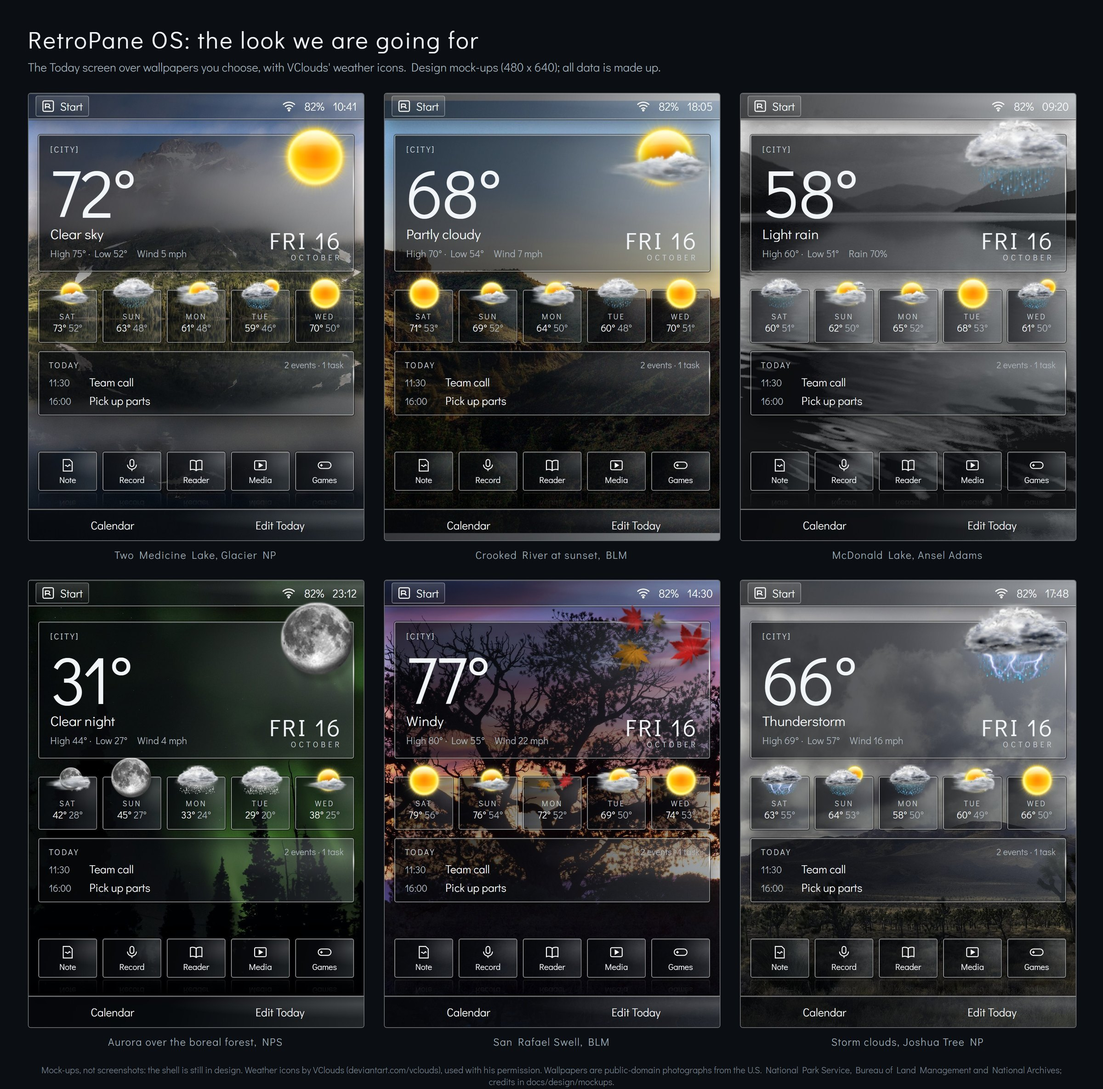
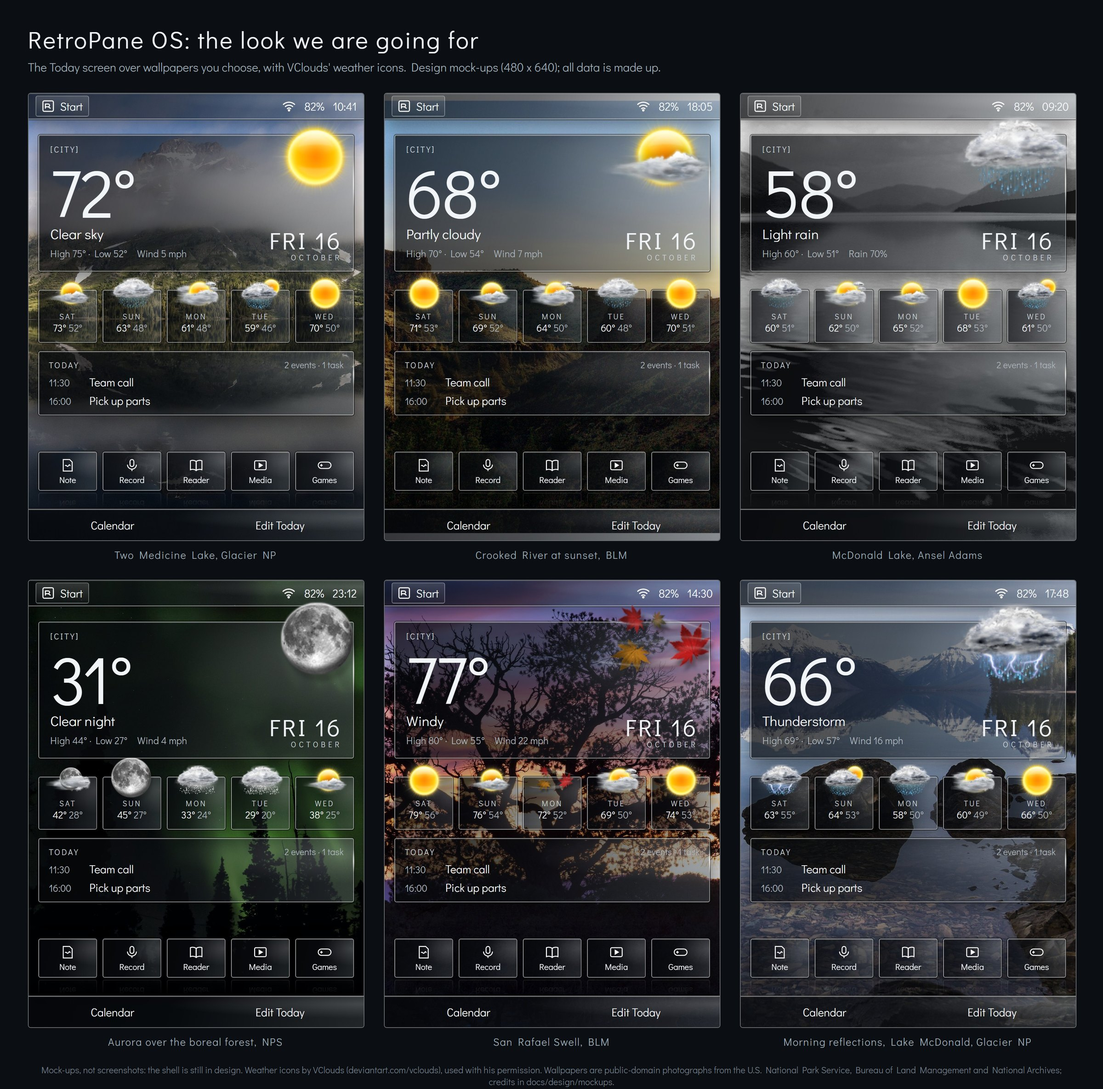
Wallpapers cut to ten (the not fully licensed one and the weakest four dropped); front-page image and thunderstorm mock-up redone without the dropped one

Changed region(s): [[0.6562, 0.562, 1.0, 0.9679]]

diff --git a/docs/design/ui.md b/docs/design/ui.md
@@ -121,9 +121,9 @@ The look the owner chose: smoked glass over a wallpaper, "a good mix of retro an
 | Aurora | `File:Night landscape northern lights scenic aurora borealis.jpg` | Public domain |
 
 **Goal (owner, 2026-10-13): at least 10 approved wallpapers ship. Met 2026-10-17:**
-the owner approved 15 from 47 candidates (the table under "Wallpaper provenance"
+the owner approved 15 from 47 candidates and then cut them to ten (the table under "Wallpaper provenance"
 supersedes the four above, of which only the lake is still in use as a built-in
-default candidate). Two of the 15 still need a source check. The rule stays: our
+default candidate). All ten are fully licensed. The rule stays: our
 own, CC0 or public domain, recorded with their Commons file and licence.
 **Where they live (owner, 2026-10-13):** the ten ship as a wallpaper pack
 on the SD card (ADR-0018); the base system carries just one default, so
@@ -232,33 +232,34 @@ the label alone. Nothing ships until its row says **ship**.
 | Pier, black and white | Christopher Sardegna, Unsplash `uDUiRS8YroY`, 2013 | CC0 on Unsplash in 2013. **Checked 2026-10-17:** the Internet Archive holds copies of its Unsplash page from 2016-10-20 and 2017-05-04, both before Unsplash's June 2017 licence change, so the photo was published under CC0 (Commons' own Wayback copy is from July 2017, which alone would not prove it) | **ship** (keep the two archive dates with the pack) |
 | Aurora | The Commons file credited to Rich and Rose Primmer via a wallpaper site | Rests on that site's claim, not a government source | **dropped 2026-10-17**, replaced by the NPS aurora photos below (federal employees' work, public domain) |
 
-**Approved by the owner (2026-10-17), from 47 candidates; numbers are those of the picture
-sheets** (the pier, the lake and the others not listed were not picked, though the
-lake still ships as the built-in wallpaper). Checked through Commons' own records:
+**Approved by the owner (2026-10-17), from 47 candidates, then cut to ten (2026-10-17, owner):**
+numbers are those of the picture sheets. Everything not fully licensed was
+dropped (#13, imported from 500px with an unconfirmed CC0 label) and then the
+weakest, until ten were left (#10, #16, #44 and #46: a saturated green forest,
+a flat fog, dull storm clouds, a vivid orange sunset). The pier and the lake
+were not picked either, though the lake photo still ships as the built-in
+wallpaper candidate. Checked through Commons' own records:
 
 | # | Commons file | Author and basis | Status |
 |---|---|---|---|
 | 4 | `File:Aurora over the boreal forest (57be20e1-a3cf-453e-9632-2d38df39b643).jpg` | NPS Photo / Tim Rains: public domain (federal agency work) | **approved** |
 | 5 | `File:The Milky Way spans the night sky above a bright orange-yellow airglow (iss073e0982679).jpg` | NASA Johnson Space Center: public domain (federal agency work) | **approved** |
 | 7 | `File:Morning light on Electric Peak.jpg` | Jacob W. Frank: public domain (federal agency work) | **approved** |
-| 10 | `File:Forest sunrise.jpg` | Peter Heeling: CC0 as the uploader declares | **approved**; the file was reviewed by a Commons licence reviewer on 2018-08-18 (CC0, posted as "Foggy forest" by Peter Heeling, 2015) |
-| 13 | `File:Foggy Forest (256920249).jpeg` | Phos4: CC0 as the uploader declares | approved, **verify**: imported from 500px and labelled CC0; the licence could not be confirmed, so replace it if it cannot be |
-| 16 | `File:Clouds and fog over Lost Horse Valley (50863680453).jpg` | Joshua Tree National Park: public domain (federal agency work) | **approved** |
 | 18 | `File:Crooked River and Chimney Rock at Sunset (25903316784).jpg` | Bureau of Land Management Oregon and Washingto: public domain (federal agency work) | **approved** |
 | 23 | `File:San Rafael Swell and Canyon - Wedgepanel (27079938169).jpg` | BLMUtah: public domain (federal agency work) | **approved** |
 | 29 | `File:McDonald Lake, Glacier National Park 19.jpg` | Ansel Adams: public domain (federal agency work) | **approved** (Ansel Adams, National Park Service mural project) |
 | 37 | `File:Morning Reflections at Lake McDonald (18750990873).jpg` | GlacierNPS: public domain (federal agency work) | **approved** |
 | 39 | `File:Two Medicine Lake Reflections (20499664708).jpg` | GlacierNPS: public domain (federal agency work) | **approved** |
 | 42 | `File:Sunset reflection on Lower Twin Lake (46171178422).jpg` | BLM Oregon & Washington: public domain (federal agency work) | **approved** |
-| 44 | `File:Storm clouds over Lost Horse Valley (50578197936).jpg` | Joshua Tree National Park: public domain (federal agency work) | **approved** |
 | 45 | `File:The Delong Mountains are reflected in the clear, clean water of Desperation Lake in the northern part of Noatak National (936b4940-1dd8-b71c-070e-3b979ec0a573).jpg` | NPS Photo: public domain (federal agency work) | **approved** |
-| 46 | `File:-conservationlands15 Social Media Takeover, Oct 15th, Top 15 Bucket List Adventures (21586256194).jpg` | mypubliclands: public domain (federal agency work) | **approved** |
 
-That is 15 against the goal of ten. Each is cropped to 3:4 from an original that
-is at least 1600 pixels wide, so none looks soft. The owner's taste, from three
-reference pictures: photographic and cinematic, real depth and leading lines,
-dramatic skies, warm earth tones against dark reflective water, black and white,
-soft bokeh; less saturated than the first batch.
+That is the ten (goal met). Each is cropped to 3:4 from an original at least 1600
+pixels wide, so none looks soft. The owner's taste, from three reference pictures:
+photographic and cinematic, real depth and leading lines, dramatic skies, warm earth
+tones against dark reflective water, black and white, soft bokeh; less saturated than
+the first batch. Note: #5 is a NASA space photograph and #29 is Ansel Adams for the
+National Park Service (National Archives); the rest are National Park Service, Bureau of
+Land Management and similar federal photographs.
 
 Each pack carries this table for its files (author, source link, licence
 basis, date checked) as its provenance note.

diff --git a/docs/design/mockups/README.md b/docs/design/mockups/README.md
@@ -32,7 +32,7 @@ plan is in [../weather.md](../weather.md).
   McDonald Lake, Glacier National Park 19 (Ansel Adams, National Park Service mural project, National Archives);
   Aurora over the boreal forest (NPS Photo / Tim Rains);
   San Rafael Swell and Canyon, Wedgepanel (BLMUtah);
-  Storm clouds over Lost Horse Valley (Joshua Tree National Park).
+  Morning Reflections at Lake McDonald (GlacierNPS, National Park Service).
 - **Optional icon packs (`optional-packs.jpg`):** Golden Hour, Frosted, Noir, Aurora
   and Chrome, made by the project owner. Design mock-up only; the licence under
   which they would ship is still to be decided ([../weather.md](../weather.md)).
